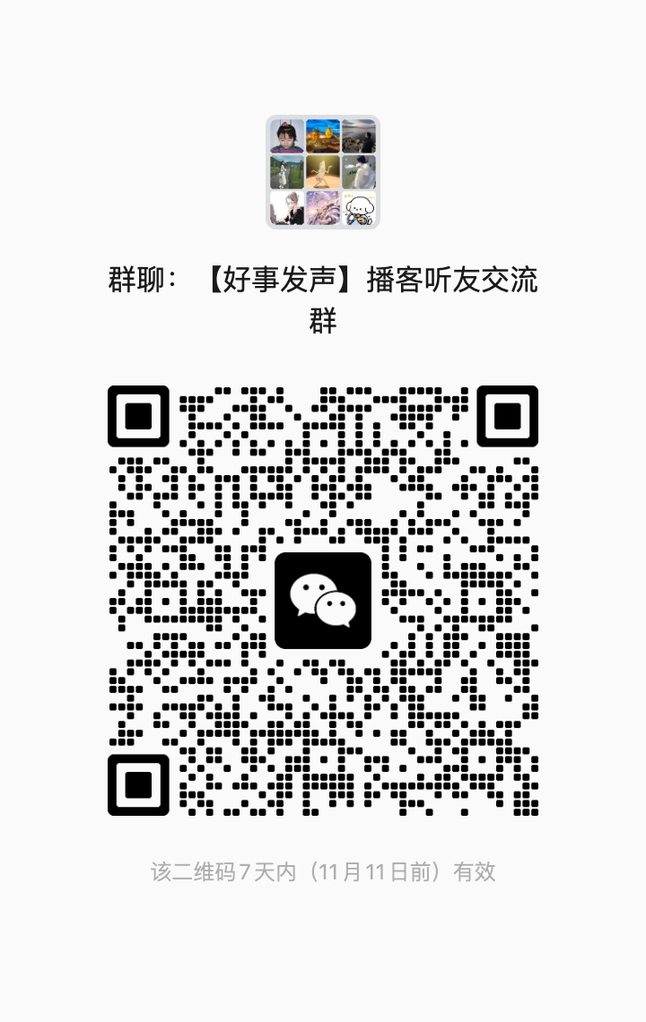
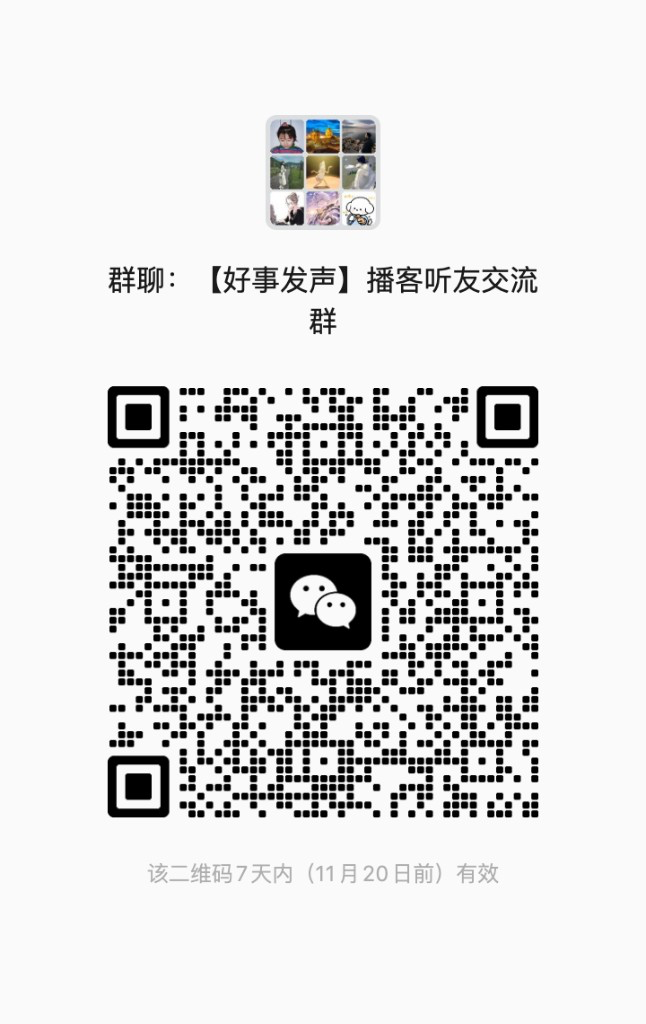
assets: listen-group poster v5 (WeChat QR valid through 2026-11-20)

diff --git a/ep-077.html b/ep-077.html
@@ -77,7 +77,7 @@
 
 <h2>5. 听友群</h2>
 <p>加入听友群获取课程逐字稿、精读讲解稿、行业金句与核心思维模型等学习素材。</p>
-<p><img src="https://joycenotebook.github.io/joyce-podcast/assets/listen-group-poster-v4.png" alt="加入好事发声听友群" /></p>
+<p><img src="https://joycenotebook.github.io/joyce-podcast/assets/listen-group-poster-v5.png" alt="加入好事发声听友群" /></p>
 
     </div>
   </main>

diff --git a/shownotes/ep-077.html b/shownotes/ep-077.html
@@ -44,4 +44,4 @@
 
 <h2>5. 听友群</h2>
 <p>加入听友群获取课程逐字稿、精读讲解稿、行业金句与核心思维模型等学习素材。</p>
-<p><img src="https://joycenotebook.github.io/joyce-podcast/assets/listen-group-poster-v4.png" alt="加入好事发声听友群" /></p>
+<p><img src="https://joycenotebook.github.io/joyce-podcast/assets/listen-group-poster-v5.png" alt="加入好事发声听友群" /></p>
